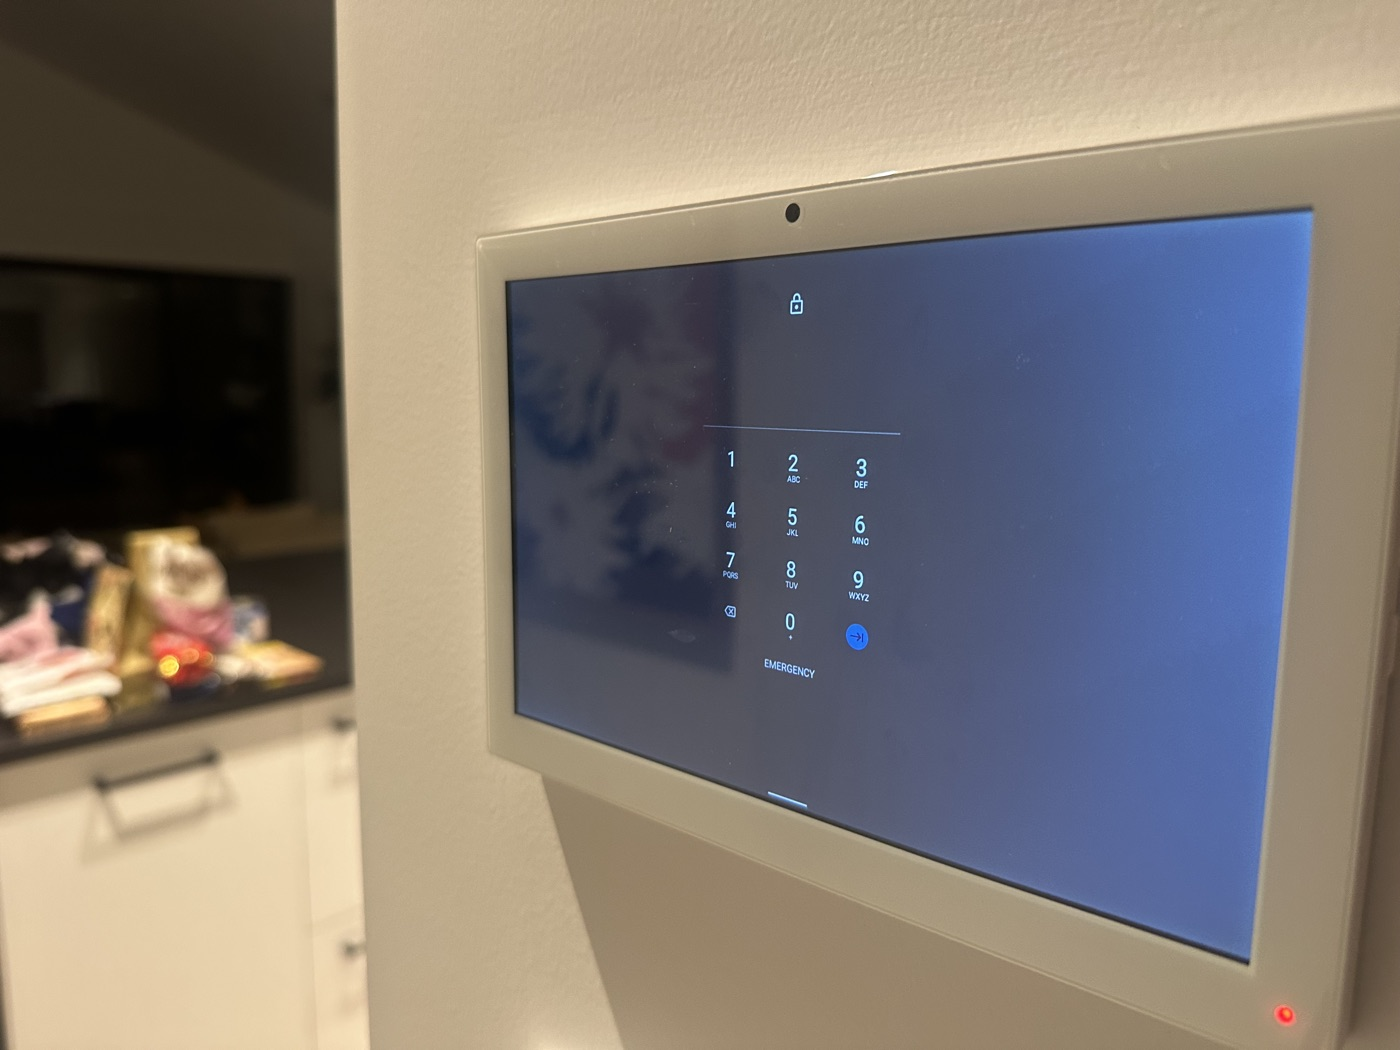
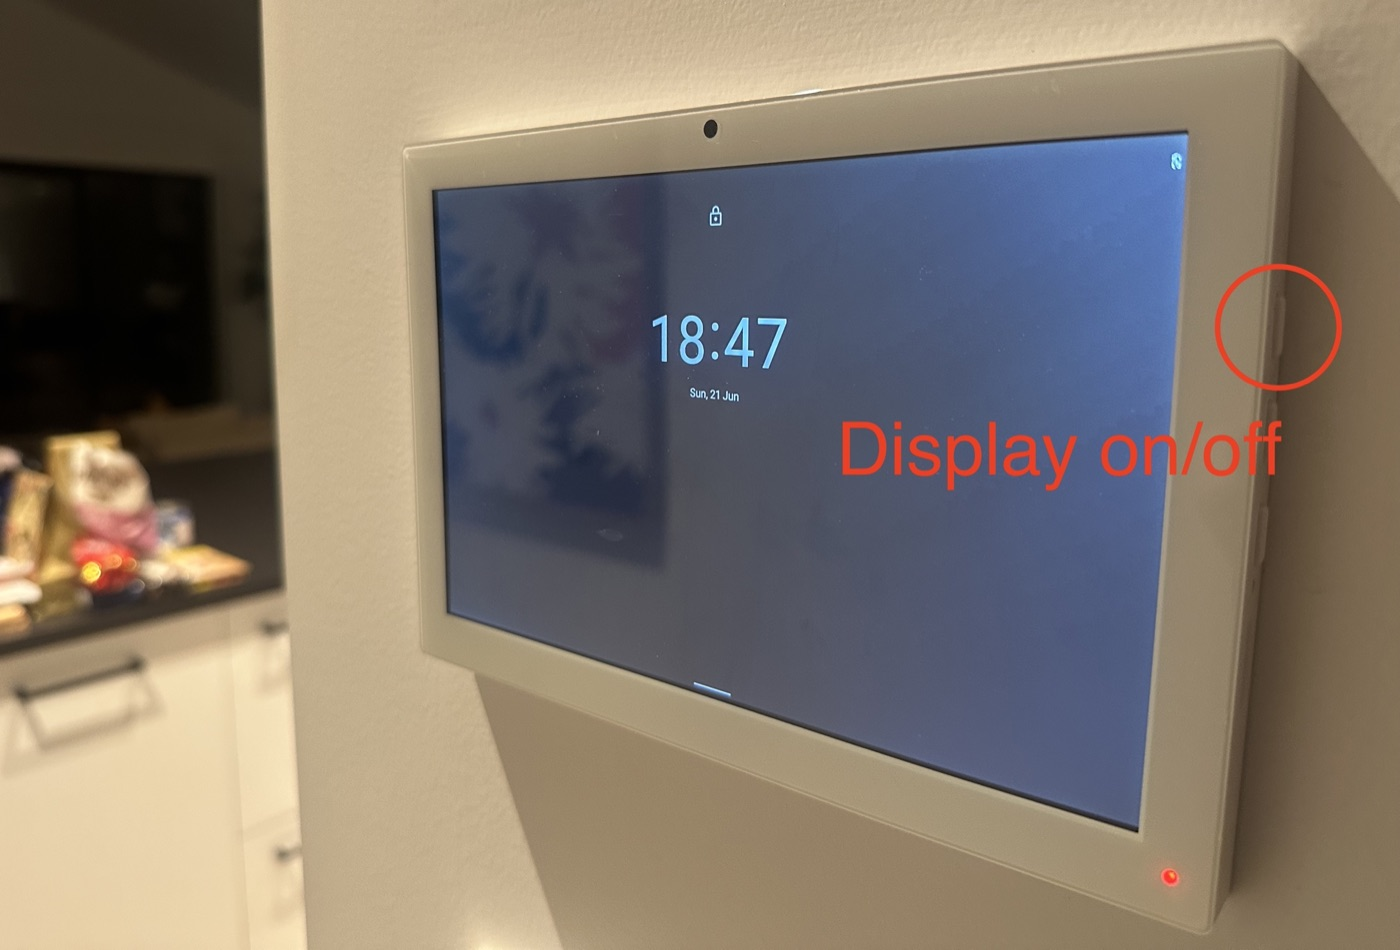
Revise copy and update photos per review
Bins: annotated photo, compost-not-yet note, recycling liner clarification.
Heating: annotated wake photo, passcode 1234, laggy-iPad and cost notes,
zone-must-be-on note. Dishwasher: simplified bench note, rinse/wastewater note,
defaults note, updated photo. General: courier and Monday-bins details.

diff --git a/docs/index.html b/docs/index.html
@@ -24,26 +24,30 @@
       <section id="bins">
         <h2>🗑️ Bins &amp; rubbish</h2>
 
-        <p>The kitchen has a pull-out drawer with two bins, each lined with a bag:</p>
+        <p>The kitchen has a pull-out drawer with two bag-lined bins:</p>
         <ul>
           <li><strong>Front bin = rubbish.</strong> Everything general goes here,
-            including food scraps (we don't separate scraps or compost).</li>
+            including food scraps.</li>
           <li><strong>Back bin = recycling.</strong></li>
         </ul>
 
+        <p class="callout">We don't compost just yet, so food scraps go in the rubbish.
+        The two <strong>lidded bins</strong> next to the rubbish (marked ✗ in the photo)
+        will be for composting down the track — they're not in use right now.</p>
+
         <figure>
-          <img src="images/bins.jpg" alt="Pull-out kitchen bin drawer with two bag-lined bins" loading="lazy">
-          <figcaption>The pull-out bin drawer — rubbish at the front, recycling at the back.</figcaption>
+          <img src="images/bins.jpg" alt="Pull-out bin drawer: front bin for rubbish, back bin for recycling, with the two lidded compost bins marked with a cross" loading="lazy">
+          <figcaption>Front bin = rubbish, back bin = ♻️ recycling. The two lidded bins (✗) aren't in use yet.</figcaption>
         </figure>
 
-        <p><strong>When a bin is full, take it out to the wheelie bins via the garage
+        <p><strong>When a bin is full, empty it into the wheelie bins via the garage
         back door:</strong></p>
         <ul>
           <li><strong>Rubbish:</strong> tie off the bag, drop it in the <strong>red-lid
             bin</strong> outside, and put a fresh bag in.</li>
           <li><strong>Recycling:</strong> tip the recycling loose into the
-            <strong>yellow-lid bin</strong> outside, then bring the bag back and reuse
-            it (no need to tie or replace it).</li>
+            <strong>yellow-lid bin</strong> outside, then bring the recycling bin back
+            inside <strong>with its bag liner still in</strong> — no need to replace it.</li>
         </ul>
 
         <h3>Please don't put down the drains</h3>
@@ -62,22 +66,27 @@
       <section id="heating">
         <h2>🔥 Ducted heating (AirTouch)</h2>
 
-        <p>Please use the heating whenever you like. It's controlled from the
+        <p>Please use the heating whenever you like — it's controlled from the
         <strong>iPad on the wall</strong>, on your right as you come into the kitchen.</p>
 
+        <p class="callout">One kind ask: heating is by far our most expensive energy
+        bill, so please be a little mindful of how much you run it. 🙏</p>
+
         <h3>Waking up &amp; unlocking the screen</h3>
+        <p>The iPad is a bit slow and the display can be laggy — give it a moment to
+        catch up after each step.</p>
         <ol>
-          <li>Tap the screen to wake it. There's also a physical power button on the
-            <strong>top-right edge</strong> of the iPad if it's fully off.</li>
+          <li>Wake the screen by tapping it, or with the <strong>Display on/off</strong>
+            button on the <strong>top-right edge</strong> of the iPad (see photo).</li>
           <li>From the clock/date screen, <strong>swipe up</strong> from the bottom.</li>
-          <li>Enter the passcode <strong>(we'll give you this separately)</strong> and
-            tap the blue arrow.</li>
-          <li>The <strong>AirTouch</strong> app should already be open.</li>
+          <li>Enter the passcode <strong>1234</strong> and tap the blue arrow.</li>
+          <li>The <strong>AirTouch</strong> app will open by default.</li>
         </ol>
 
         <figure>
-          <img src="images/heating-unlock.jpg" alt="iPad lock screen showing the number keypad" loading="lazy">
-          <figcaption>Swipe up, enter the code, tap the blue arrow.</figcaption>
+          <img src="images/heating-unlock.jpg" alt="iPad clock screen with the Display on/off button highlighted on the right edge" loading="lazy">
+          <figcaption>Use the <strong>Display on/off</strong> button on the right edge
+          to wake the screen, then swipe up and enter <strong>1234</strong>.</figcaption>
         </figure>
 
         <h3>Turning heating on</h3>
@@ -100,6 +109,8 @@
           <li><strong>Overnight:</strong> set each room you want on to <strong>18°C</strong>
             and let it gently top up. If you set it to 20–23° overnight it gets far too
             hot.</li>
+          <li>You can only change a zone's temperature once that zone is switched
+            <strong>on</strong> — otherwise it just shows "OFF".</li>
           <li><strong>Daytime (if cold):</strong> 22–23°C heats the house nicely.</li>
           <li>The <strong>master bedroom and office</strong> side of the house gets
             little winter sun, so they often need heating.</li>
@@ -112,22 +123,24 @@
       <section id="dishwasher">
         <h2>🍽️ Dishwasher</h2>
 
-        <p><strong>Careful loading and unloading:</strong> the benchtop overhangs the
-        open dishwasher drawer, and a dish can catch the edge of the bench. That's how
-        the front has been chipped before — and it's a whole-unit replacement to fix
-        properly — so please go gently.</p>
+        <p><strong>Please be careful loading and unloading</strong> — the benchtop sits
+        right over the open drawer. That's how the bench got chipped before, and we had
+        to replace the whole bench, so go gently.</p>
 
         <figure>
-          <img src="images/dishwasher.jpg" alt="Dishwasher control panel showing cycle and option buttons" loading="lazy">
-          <figcaption>Use <strong>Fast</strong> mode with <strong>Extra Dry</strong> selected.</figcaption>
+          <img src="images/dishwasher.jpg" alt="Dishwasher control panel with Fast and Extra Dry selected" loading="lazy">
+          <figcaption><strong>Fast</strong> mode and <strong>Extra Dry</strong> should
+          already be set on both drawers.</figcaption>
         </figure>
 
         <p>To run it:</p>
         <ol>
-          <li>Load it up.</li>
+          <li>Load it up, and <strong>rinse dishes well first</strong> — we have to be
+            careful about food waste going into our wastewater system.</li>
           <li>Add a dishwasher powder tablet — they're in the <strong>drawer under the
             sink</strong>.</li>
-          <li>Select <strong>Fast</strong> mode and turn on <strong>Extra Dry</strong>.</li>
+          <li><strong>Fast</strong> mode with <strong>Extra Dry</strong> should be on by
+            default for both drawers; if not, just select them.</li>
           <li>Press start.</li>
         </ol>
       </section>
@@ -153,8 +166,12 @@
         <ul>
           <li><strong>Water runs on a pump.</strong> When you turn on a tap it takes a
             moment for the pump to kick in and pressure to build — totally normal.</li>
-          <li><strong>Deliveries:</strong> we may have a few parcels arrive.</li>
-          <li><strong>Visitors:</strong> Nikita's parents might pop by.</li>
+          <li><strong>Deliveries:</strong> couriers usually just leave parcels at the
+            front door and may ring the bell on drop-off. Occasionally one needs a
+            signature.</li>
+          <li><strong>Bins:</strong> Nikita's parents will put the wheelie bins out and
+            bring them back in on <strong>Mondays</strong>, so you don't need to worry
+            about bin day.</li>
           <li><strong>Cleaning supplies:</strong> in the kitchen <strong>under the
             sink</strong>, in <strong>each bathroom</strong>, and there are extra
             cloths/supplies in the garage.</li>